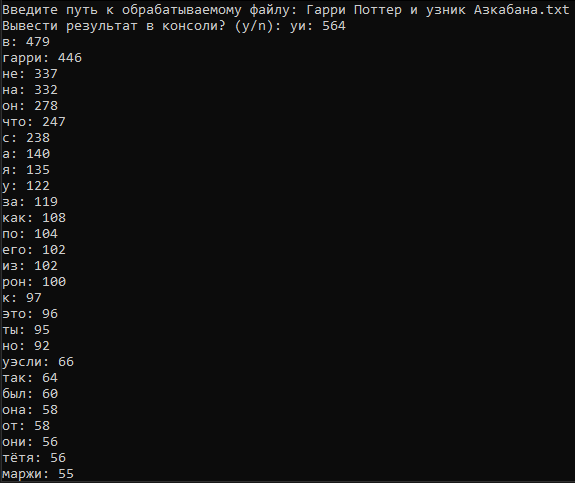
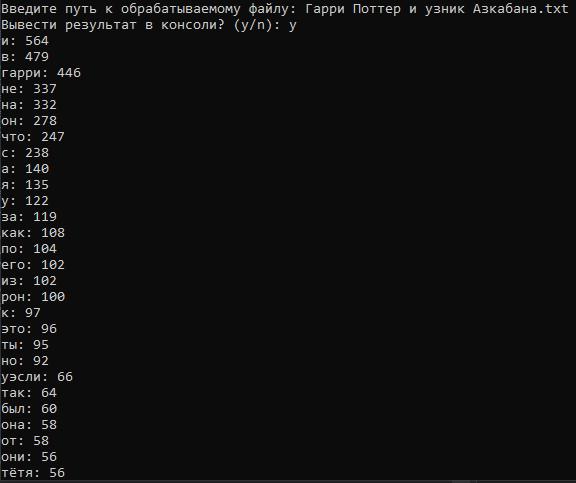
Fixed output

Changed region(s): [[0.0, 0.0, 1.0, 1.0]]

diff --git a/WordCounter/Program.cs b/WordCounter/Program.cs
@@ -10,18 +10,18 @@ namespace WordCounter
             Console.Write("Введите путь к обрабатываемому файлу: ");
             wb.ReadFile(Console.ReadLine());
             Console.Write("Вывести результат в консоли? (y/n): ");
-            if (Console.ReadKey().Key == ConsoleKey.Y)
+            if (Char.ToLower(Console.ReadLine()[0]) == 'y')
             {
                 wb.Print();
             }
-            Console.Write("\nВывести результат в файл? (y/n): ");
-            if (Console.ReadKey().Key == ConsoleKey.Y)
+            Console.Write("Вывести результат в файл? (y/n): ");
+            if (Char.ToLower(Console.ReadLine()[0]) == 'y')
             {
-                Console.Write("\nВведите путь к файлу с файлу с результатом: ");
+                Console.Write("Введите путь к файлу с файлу с результатом: ");
                 wb.WriteInFile(Console.ReadLine());
             }
-            Console.Write("\nНажмите любую клавишу: ");
-            Console.ReadKey();
+            Console.Write("Нажмите Enter для выхода: ");
+            Console.ReadLine();
         }
     }
 }
